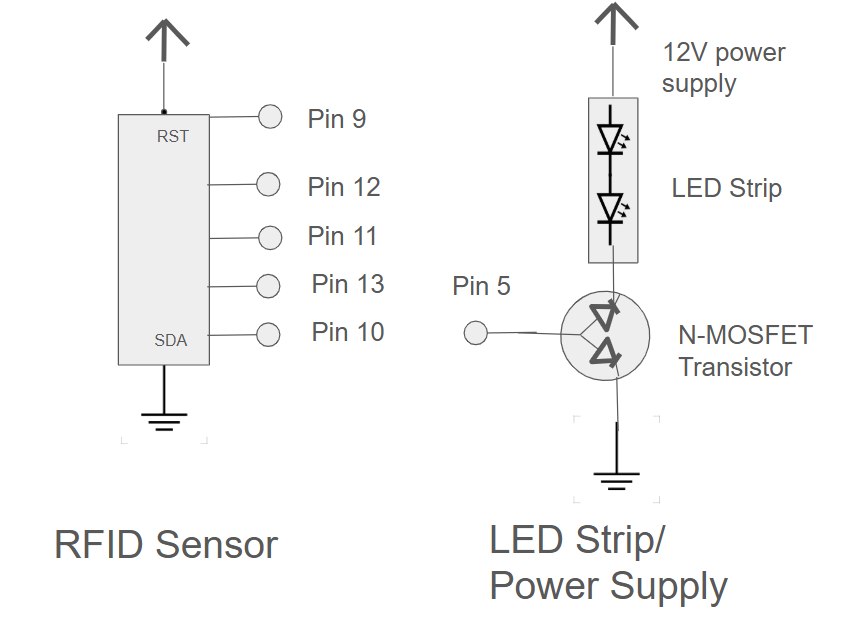
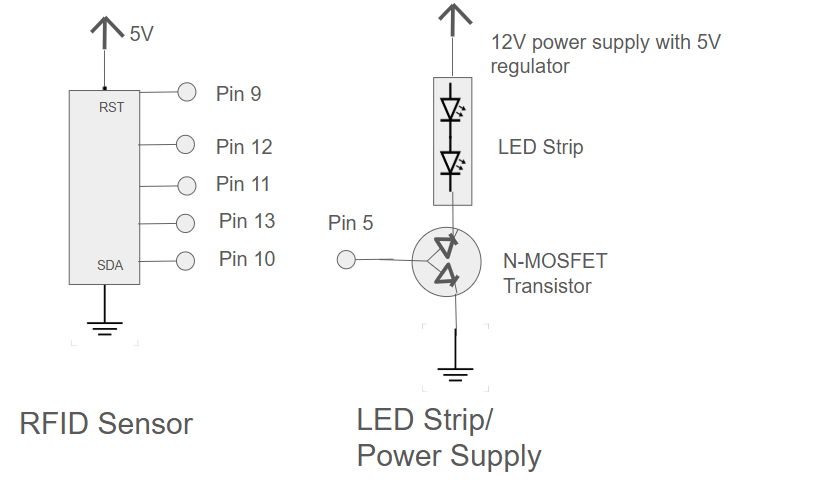
A5done1

diff --git a/A5/a5.html b/A5/a5.html
@@ -18,15 +18,22 @@
       <img src = "A5schematic.png" width="500" height="400"/>
     <h2>Critical Points Calculation</h2>
       <pre>
-        Point 1:
-        Point 2:
-        Point 3: 
+        Point 1: Power source to LED Strip: 
+        Voltage = 5V from the power supply, Current = 
+        Point 2: 
+
+        Point 3: Into the Transitior: 1.7A into the transistor see below calculation. 
       </pre>
     <h2>The transistor can handle a max current. Justify how much current you are using.</h2>
       <pre>
         Omh's Law: V = I * R 
-        Max current of the transistor is 33.9A according to the datasheet. 
-
+        Max current of the transistor 80 A according to the datasheet. We are sending 5V through the LED strip via the regulator. 
+        The LED strip has resistors built into the circuit as well as white LEDs with a voltage drop of 3.3V 
+        For all 3 white LEDS: 3.3V * 3 = 9.9V
+        The resistor on one segment of the LED strip says 181Ω so we will use that to find the current of one 3 LED segment
+        12V - 9.9V = 2.1V then 2.1V / 181Ω = 0.012A or 12mA
+        There are 98 sets of the 3 LED segments in the roll so 0.012A * 98 = 1.17 A for the roll
+        This is less than the max current of 80 A.
       </pre>
 
     <h2>Image of Circuit</h2>
@@ -109,18 +116,58 @@ void loop() {
     <h2>Additional Questions</h2>  
       <h3>Question 1: What is the absolute maximum amount of current between pins 2 and 3?</h3>    
         <p>
-
-
+          According to the datasheet the continuous drain current is 37.2 A, this is the maximum current when the current is continuous
+          However, if the current is happening in pulsed duty cycles then  (10µs Pulse, Duty Cycle = 1%) then the maximum current is 80 A.
         </p>
       <h3>Question 2:  Draw a schematic for a circuit with using at least your arduino, a DC motor, a flyback diode, and capacitors between power and ground. Find parts with datasheets you could use for each of these schematic components.</h3>
       <img src = "A5Question2.png" width="500" height="600"/>  
       <pre>
-
+        Datasheets:
+        DC motor: https://www.ti.com/lit/gpn/DRV8840
+        Arduino: https://docs.arduino.cc/resources/datasheets/A000066-datasheet.pdf
+        Flyback diode: https://www.digikey.in/htmldatasheets/production/1914435/0/0/1/1n4001-1n4007.html
+        Capacitor: https://docs.rs-online.com/e491/0900766b8173e2ff.pdf
       </pre>
-      <h3>Question 3: Here is the datasheet for the L293D chip: https://www.ti.com/product/L293DLinks to an external site.. Draw a schematic using at least your arduino, this chip, and two motors. Write (pseudo) code that shows how you would move the motors both forward, both back, then one forward one back, and one back then forward.</h3>
+      <h3>Question 3: Here is the datasheet for the L293D chip: https://www.ti.com/product/L293DLinks to an external site..
+         Draw a schematic using at least your arduino, this chip, and two motors. Write (pseudo) code that shows how you would move the motors both forward, both back, then one forward one back, and one back then forward.</h3>
         <img src = "A5Question3.png" width="500" height="600"/>  
         <pre> 
+          <code>
+            int  = 10;
+            int = 9;
+            int = 5;
+            int = 6;
 
+            void setup
+            pinmode(10,OUTPUT);
+            pinmode(10,OUTPUT);
+            pinmode(10,OUTPUT);
+            pinmode(10,OUTPUT);
+
+            //Both forward
+            digitalWrite(10,HIGH);
+            digitalWrite(9,LOW);
+            digitalWrite(5,HIGH);
+            digitalWrite(6,LOW);
+
+            //Both back
+            digitalWrite(10,LOW);
+            digitalWrite(9,HIGH);
+            digitalWrite(5,LOW);
+            digitalWrite(6,HIGH);
+
+            //One Back two forward
+            digitalWrite(10,LOW);
+            digitalWrite(9,HIGH);
+            digitalWrite(5,HIGH);
+            digitalWrite(6,LOW);
+
+            //Two forward One back
+            digitalWrite(10,HIGH);
+            digitalWrite(9,LOW);
+            digitalWrite(5,LOW);
+            digitalWrite(6,LOW);
+          </code>
         </pre>
     </body>
 </html>
